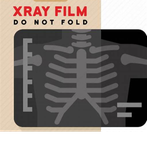
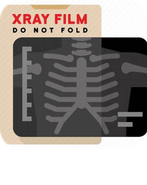
Minor improvements.

Changed region(s): [[0.0, 0.0, 1.0, 0.8182], [0.1361, 0.3939, 0.2177, 0.697], [0.8707, 0.4848, 0.898, 0.5152]]

diff --git a/Interface/gui_base.py b/Interface/gui_base.py
@@ -52,7 +52,7 @@ class GUI:
 
     def load_images(self):
         self.image_1 = PhotoImage(file=self.relative_to_assets("image_1.png"))
-        self.canvas.create_image(592.0, 350.0, image=self.image_1)
+        self.canvas.create_image(585.0, 350.0, image=self.image_1)
 
         self.image_2 = PhotoImage(file=self.relative_to_assets("image_2.png"))
         self.canvas.create_image(601.0, 64.0, image=self.image_2)
@@ -66,7 +66,7 @@ class GUI:
             highlightthickness=0,
             command=self.open_new_interface_1,
         )
-        self.button_3.place(x=-46, y=290.0)
+        self.button_3.place(x=12, y=285.0)
 
         self.image_4 = PhotoImage(file=self.relative_to_assets("image_4.png"))
         self.button_4 = Button(
@@ -77,10 +77,10 @@ class GUI:
             highlightthickness=0,
             command=self.open_new_interface_2,
         )
-        self.button_4.place(x=20, y=520.0)
+        self.button_4.place(x=15, y=510.0)
 
         self.image_5 = PhotoImage(file=self.relative_to_assets("image_5.png"))
-        self.canvas.create_image(90.0, 215.0, image=self.image_5)
+        self.canvas.create_image(95.0, 210.0, image=self.image_5)
 
     @staticmethod
     def relative_to_assets(path: str) -> Path:

diff --git a/Interface/gui_2.py b/Interface/gui_2.py
@@ -51,7 +51,7 @@ class GUI:
         self.image_3 = self.canvas.create_image(45.0, 643.0, image=self.image_image_3)
 
         self.image_image_4 = PhotoImage(file=relative_to_assets("image_4.png"))
-        self.image_4 = self.canvas.create_image(620.0, 240.0, image=self.image_image_4)
+        self.image_4 = self.canvas.create_image(620.0, 280.0, image=self.image_image_4)
 
         self.text_widget = Text(
             self.window,
@@ -94,13 +94,14 @@ class GUI:
 
         self.image_image_5 = PhotoImage(file=relative_to_assets("image_5.png"))
         self.button_5 = Button(
+            self.window,
             image=self.image_image_5,
-            bg="#202225",
+            bg="#2f3235",
             borderwidth=0,
             highlightthickness=0,
             command=open_file_dialog,
         )
-        self.button_5.place(x=890.0, y=250.0)
+        self.button_5.place(x=5.0, y=180.0)
 
         self.window.resizable(False, False)
 

diff --git a/Interface/tempCodeRunnerFile.py b/Interface/tempCodeRunnerFile.py
@@ -1,1 +1,2 @@
-class GUI:
+
+OUTPUT_PATH = Path(__file__).parent
